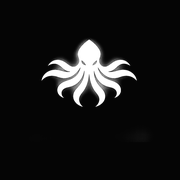
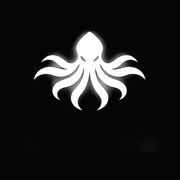
Agrando el ícono manteniendo el trazo fino original (v8, elegida por el usuario)
El aumento anterior de relleno (62%->82%) no se notó porque el pulpo
es más ancho que alto: al encajarlo en un cuadrado, sobraba aire
arriba/abajo aunque ocupara casi todo el ancho. Se sube a 96% (99% de
lo que permite el propio recorte del mark) sin engrosar el trazo,
que era lo que el usuario prefería (se distinguen los "ojos"). El
maskable queda en 72% para no perder contenido con el recorte
circular/squircle del sistema.

Changed region(s): [[0.1667, 0.1667, 0.8056, 0.6111]]

diff --git a/src/app/manifest.ts b/src/app/manifest.ts
@@ -10,10 +10,10 @@ export default function manifest(): MetadataRoute.Manifest {
     background_color: "#050505",
     theme_color: "#050505",
     icons: [
-      { src: "/icons/icon-192-v3.png", sizes: "192x192", type: "image/png", purpose: "any" },
-      { src: "/icons/icon-512-v3.png", sizes: "512x512", type: "image/png", purpose: "any" },
-      { src: "/icons/maskable-192-v3.png", sizes: "192x192", type: "image/png", purpose: "maskable" },
-      { src: "/icons/maskable-512-v3.png", sizes: "512x512", type: "image/png", purpose: "maskable" },
+      { src: "/icons/icon-192-v4.png", sizes: "192x192", type: "image/png", purpose: "any" },
+      { src: "/icons/icon-512-v4.png", sizes: "512x512", type: "image/png", purpose: "any" },
+      { src: "/icons/maskable-192-v4.png", sizes: "192x192", type: "image/png", purpose: "maskable" },
+      { src: "/icons/maskable-512-v4.png", sizes: "512x512", type: "image/png", purpose: "maskable" },
     ],
   };
 }
